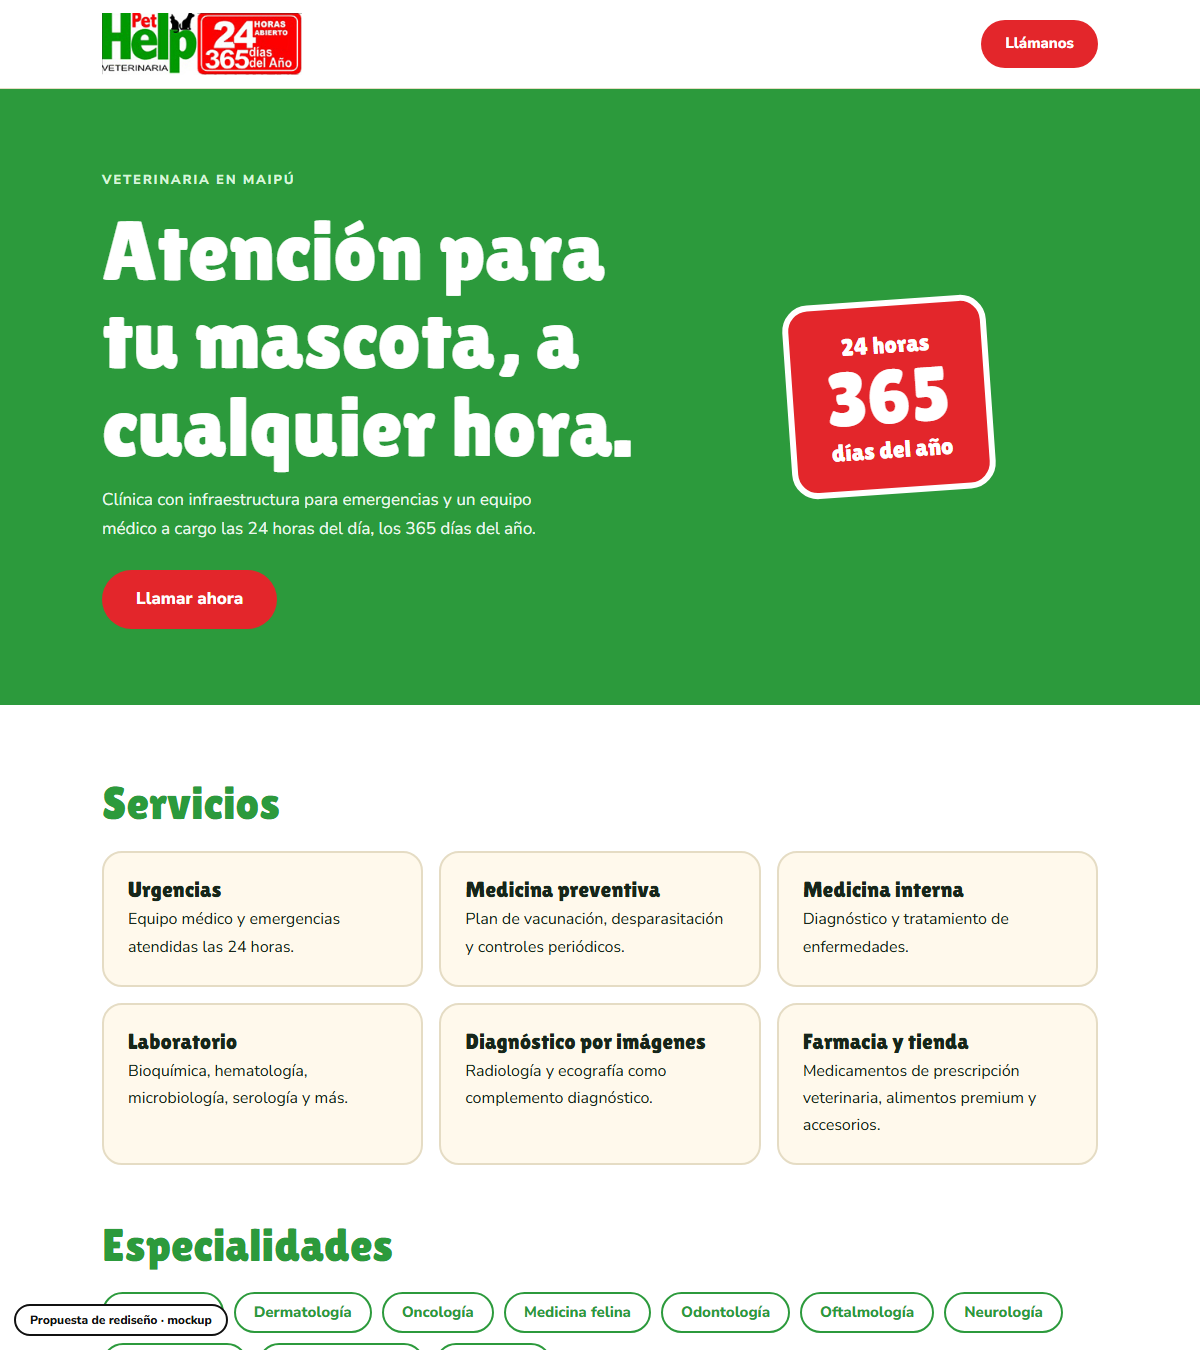
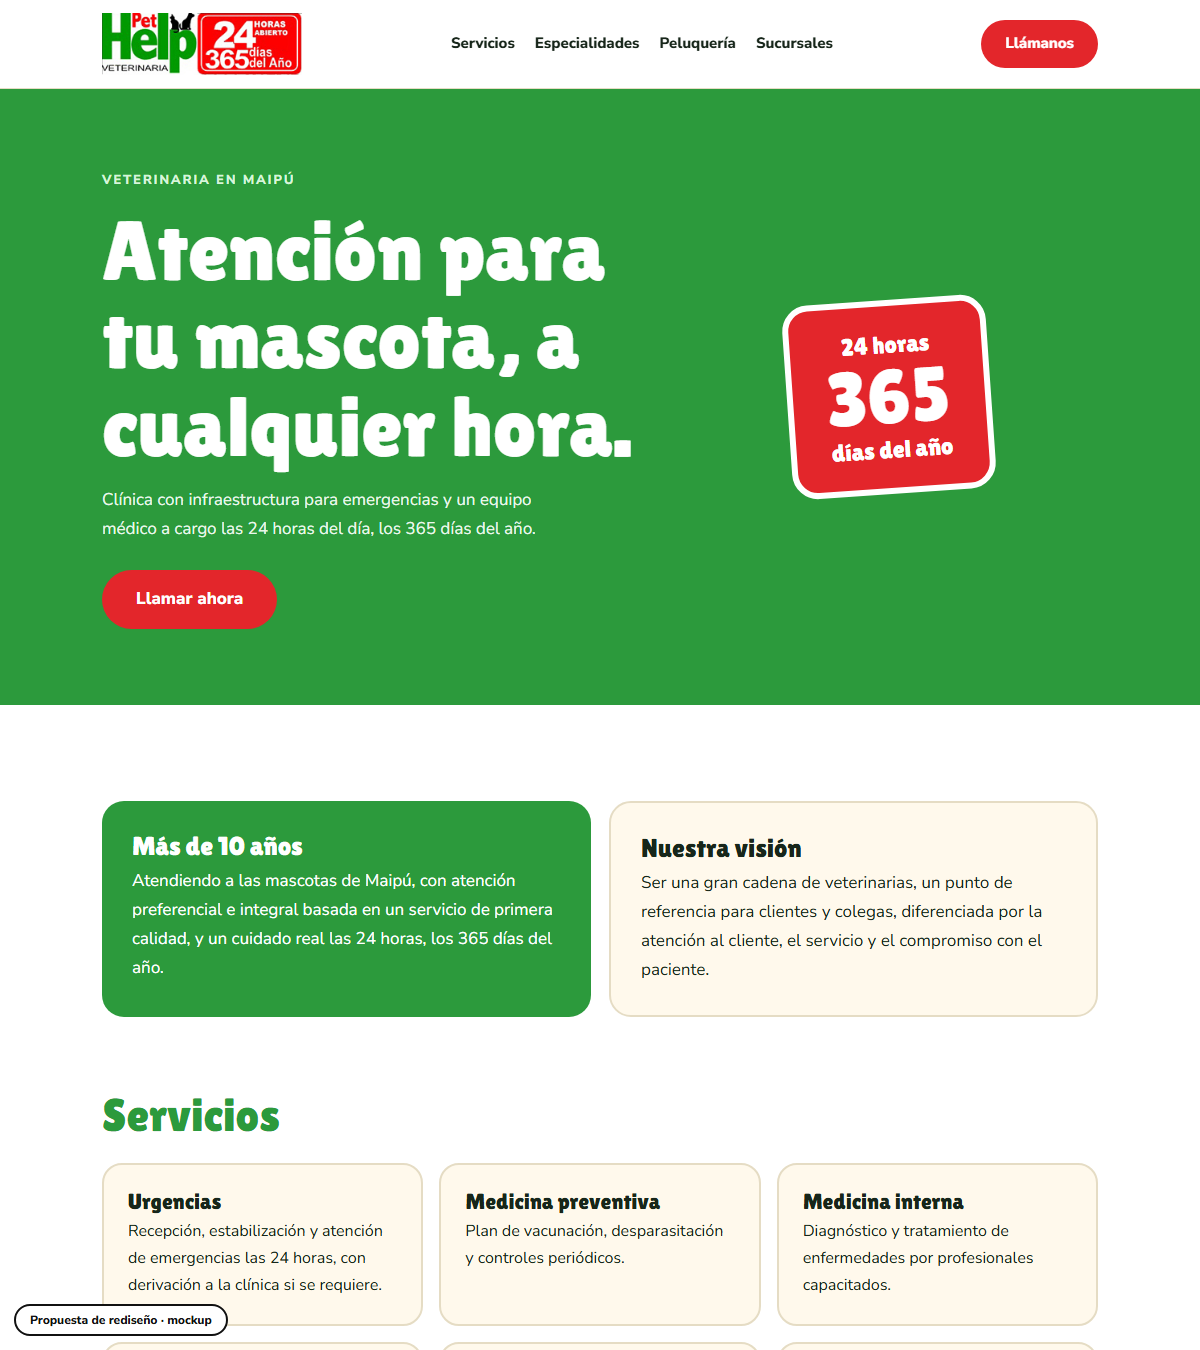
Mockup: pet-help-maipu

diff --git a/pet-help-maipu/index.html b/pet-help-maipu/index.html
@@ -6,12 +6,12 @@
 <link href="https://fonts.googleapis.com/css2?family=Lilita+One&family=Nunito+Sans:wght@400;600;800&display=swap" rel="stylesheet">
 <style>
 :root{--green:#2c9a3c;--red:#e3262b;--cream:#fff9ec;--ink:#17261a;--line:#e5dcc4}
-*{box-sizing:border-box;margin:0}html{scroll-behavior:smooth}
+*{box-sizing:border-box;margin:0}html{scroll-behavior:smooth;scroll-padding-top:100px}
 @media(prefers-reduced-motion:reduce){html{scroll-behavior:auto}}
 body{background:#fff;color:var(--ink);font:400 17px/1.7 'Nunito Sans',sans-serif}
 .wrap{max-width:1040px;margin:0 auto;padding:0 22px}
 h1,h2,h3{font-family:'Lilita One',sans-serif;font-weight:400;line-height:1.05}
-header{border-bottom:1px solid var(--line)}header .wrap{display:flex;justify-content:space-between;align-items:center;height:88px;gap:12px}
+header{position:sticky;top:0;z-index:20;border-bottom:1px solid var(--line)}header .wrap{display:flex;justify-content:space-between;align-items:center;height:88px;gap:12px}
 header img{height:62px}
 header a.b{background:var(--red);color:#fff;text-decoration:none;padding:11px 24px;border-radius:30px;font-weight:800;font-size:15px}
 header a.b:hover{background:var(--green)}
@@ -31,19 +31,25 @@ section{padding:74px 0}h2{font-size:clamp(28px,4.4vw,46px);color:var(--green);ma
 .contact a.l{display:inline-block;margin:6px 14px;font:400 clamp(30px,5vw,52px) 'Lilita One';color:#7be08a;text-decoration:none}.contact a.l:hover{color:#fff}
 .contact p{color:#cfd9d1}
 footer{padding:22px 0 90px;text-align:center;font-size:13px;color:#667}
-.mock{position:fixed;left:14px;bottom:14px;background:#fff;color:#111;border:2px solid #111;font:800 12px/1 'Nunito Sans';padding:8px 14px;border-radius:30px;z-index:9}
+.mock{z-index:30;position:fixed;left:14px;bottom:14px;background:#fff;color:#111;border:2px solid #111;font:800 12px/1 'Nunito Sans';padding:8px 14px;border-radius:30px;z-index:9}
 @media(max-width:820px){.hero .wrap,.g3{grid-template-columns:1fr}.hero .wrap{padding:48px 22px}.badge b{font-size:60px}}
-</style></head><body>
-<header><div class="wrap"><img src="assets/logopag2.jpg" alt="Pet Help Veterinaria"><a class="b" href="#contacto">Llámanos</a></div></header>
+nav{display:flex;gap:20px;font-weight:800;font-size:15px}nav a{color:var(--ink);text-decoration:none}nav a:hover{color:var(--red)}.ab{display:grid;grid-template-columns:1fr 1fr;gap:18px;margin-top:22px}.ab>div{background:var(--green);color:#fff;border-radius:22px;padding:30px}.ab>div+div{background:var(--cream);color:var(--ink);border:2px solid var(--line)}.ab b{font:400 26px "Lilita One";display:block;margin-bottom:6px}.big{font:400 clamp(54px,9vw,96px)/1 "Lilita One";color:var(--red)}.sed{display:grid;grid-template-columns:1fr 1fr;gap:18px;margin-top:22px}.sed>div{border:2px solid var(--green);border-radius:22px;padding:28px;background:#fff}.sed b{font:400 24px "Lilita One";color:var(--green);display:block;margin-bottom:6px}.pel{background:var(--cream)}.pel p{max-width:62ch;margin-bottom:12px}@media(max-width:820px){nav{display:none}.ab,.sed{grid-template-columns:1fr}}</style></head><body>
+<header><div class="wrap"><img src="assets/logopag2.jpg" alt="Pet Help Veterinaria"><nav><a href="#servicios">Servicios</a><a href="#especialidades">Especialidades</a><a href="#peluqueria">Peluquería</a><a href="#sucursales">Sucursales</a></nav><a class="b" href="#contacto">Llámanos</a></div></header>
 <div class="hero"><div class="wrap"><div><small>Veterinaria en Maipú</small><h1>Atención para tu mascota, a cualquier hora.</h1><p>Clínica con infraestructura para emergencias y un equipo médico a cargo las 24 horas del día, los 365 días del año.</p><a class="btn" href="tel:+56228956034">Llamar ahora</a></div><div class="badge">24 horas<b>365</b>días del año</div></div></div>
-<section><div class="wrap"><h2>Servicios</h2><div class="g3">
-<div><b>Urgencias</b>Equipo médico y emergencias atendidas las 24 horas.</div>
+<section id="nosotros"><div class="wrap"><div class="ab"><div><b>Más de 10 años</b>Atendiendo a las mascotas de Maipú, con atención preferencial e integral basada en un servicio de primera calidad, y un cuidado real las 24 horas, los 365 días del año.</div><div><b>Nuestra visión</b>Ser una gran cadena de veterinarias, un punto de referencia para clientes y colegas, diferenciada por la atención al cliente, el servicio y el compromiso con el paciente.</div></div></div></section>
+<section id="servicios" style="padding-top:0"><div class="wrap"><h2>Servicios</h2><div class="g3">
+<div><b>Urgencias</b>Recepción, estabilización y atención de emergencias las 24 horas, con derivación a la clínica si se requiere.</div>
 <div><b>Medicina preventiva</b>Plan de vacunación, desparasitación y controles periódicos.</div>
-<div><b>Medicina interna</b>Diagnóstico y tratamiento de enfermedades.</div>
-<div><b>Laboratorio</b>Bioquímica, hematología, microbiología, serología y más.</div>
-<div><b>Diagnóstico por imágenes</b>Radiología y ecografía como complemento diagnóstico.</div>
-<div><b>Farmacia y tienda</b>Medicamentos de prescripción veterinaria, alimentos premium y accesorios.</div></div>
-<h2 style="margin-top:56px">Especialidades</h2><div class="spec"><span>Cardiología</span><span>Dermatología</span><span>Oncología</span><span>Medicina felina</span><span>Odontología</span><span>Oftalmología</span><span>Neurología</span><span>Endocrinología</span><span>Medicina holística</span><span>Peluquería</span></div></div></section>
+<div><b>Medicina interna</b>Diagnóstico y tratamiento de enfermedades por profesionales capacitados.</div>
+<div><b>Laboratorio clínico</b>Bioquímica, hematología, microbiología, serología, biología molecular, citohistopatología y estudio de líquidos corporales.</div>
+<div><b>Diagnóstico por imágenes</b>Radiología y ecografía; también electrocardiografía y ecocardiografía.</div>
+<div><b>Cirugía</b>Cirugía general y especializada.</div>
+<div><b>Farmacia</b>Amplio catálogo de medicamentos de prescripción veterinaria, también para pacientes externos.</div>
+<div><b>Tienda</b>Alimentos premium y de prescripción médica, y accesorios para tu mascota.</div>
+<div><b>Climatización</b>Casa matriz con aire acondicionado para mantener una temperatura correcta a los pacientes.</div></div>
+<h2 id="especialidades" style="margin-top:52px">Especialidades</h2><div class="spec"><span>Cardiología</span><span>Dermatología</span><span>Oncología</span><span>Medicina felina</span><span>Odontología</span><span>Oftalmología</span><span>Neurología</span><span>Endocrinología</span><span>Medicina holística</span></div></div></section>
+<section class="pel" id="peluqueria"><div class="wrap"><h2>Peluquería con agenda</h2><p>El servicio de peluquería funciona con agenda: así las mascotas no tienen contacto entre sí, y el tiempo y la dedicación del peluquero son exclusivos para cada una. De este modo se estresan menos.</p></div></section>
+<section id="sucursales"><div class="wrap"><h2>Dónde encontrarnos</h2><div class="sed"><div><b>Casa matriz · Maipú</b><p>Darwin 496, Maipú. Clínica veterinaria con urgencias 24 horas.</p><p>(2) 2895 6034 · (2) 2766 1082</p></div><div><b>Sucursal El Cármen</b><p>El Cármen 1355, Maipú. Medicina preventiva, medicina interna, urgencias (estabilización y derivación), laboratorio, electrocardiografía y tienda.</p></div><div><b>Consulta Veterinaria 3 Poniente</b><p>Av. Nueva San Martín 1571, local 5C. Lunes a domingo, 10:30 a 20:30.</p></div></div></div></section>
 <section class="contact" id="contacto"><div class="wrap"><h2>Estamos en Maipú</h2><a class="l" href="tel:+56228956034">(2) 2895 6034</a><a class="l" href="tel:+56227661082">(2) 2766 1082</a><p>Darwin 496, Maipú<br><a style="color:#fff" href="mailto:consulta@veterinariapethelp.cl">consulta@veterinariapethelp.cl</a></p></div></section>
 <footer>PET HELP VETERINARIA · MAIPÚ</footer>
 <div class="mock">Propuesta de rediseño · mockup</div></body></html>
